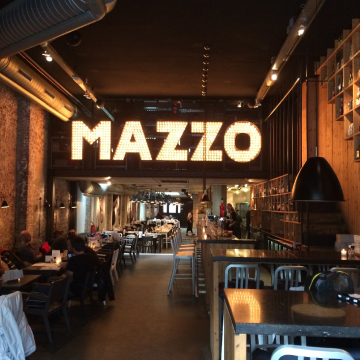
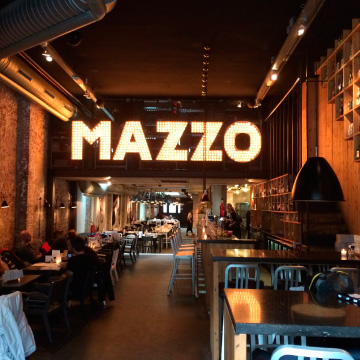
added some css animation and optimize images

diff --git a/index.html b/index.html
@@ -4,29 +4,46 @@
 <head>
   <meta charset="UTF-8">
   <meta name="viewport" content="width=device-width, initial-scale=1.0">
+  <link rel="shortcut icon" href="img/favicon.ico" type="image/x-icon">
   <link rel="stylesheet" href="styles/main.css">
   <link href="https://use.fontawesome.com/releases/v5.0.13/css/all.css" rel="stylesheet">
   <title>Hungry People</title>
 </head>
 
 <body>
-  <section class="main-section">
+  <section id="main-section" class="main-section">
     <div class="container">
       <header>
         <ul class="menu menu--left">
-          <li>home</li>
-          <li>about</li>
-          <li>team</li>
-          <li>booking</li>
+          <a href="#main-section">
+            <li>home</li>
+          </a>
+          <a href="#about-section">
+            <li>about</li>
+          </a>
+          <a href="#our-team-section">
+            <li>team</li>
+          </a>
+          <a href="#book-a-table-section">
+            <li>booking</li>
+          </a>
         </ul>
         <div class="logo">
           <a href=""><img src="img/logo.svg" alt=""></a>
         </div>
         <ul class="menu menu--right">
-          <li>menu</li>
-          <li>galerie</li>
-          <li>events</li>
-          <li>contact</li>
+          <a href="#delicious-menu-section">
+            <li>menu</li>
+          </a>
+          <a href="#events-section">
+            <li>events</li>
+          </a>
+          <a href="#photo-gallery-section">
+            <li>galerie</li>
+          </a>
+          <a href="#contact-section">
+            <li>contact</li>
+          </a>
         </ul>
       </header>
       <div class="main-section__content">
@@ -36,24 +53,39 @@
           <h1>hungry people</h1>
           <div class="decor-hr"></div>
           <div class="buttons">
-            <button>BOOK TABLE</button>
-            <button class="transparent">EXPLORE</button>
+            <a href="#book-a-table-section"><button>BOOK TABLE</button></a>
+            <a href="#map-section"><button class="transparent">EXPLORE</button></a>
           </div>
-          <div class="link-down">
+          <a href="#about-section">
+            <div class="link-down">
+              <div class="link-down__body">
+                <img src="img/down-chevron.svg" alt="">
+              </div>
+            </div>
+          </a>
+        </div>
+        <div class="social">
+          <a href="#">
+            <div><img src="img/facebook.svg" alt=""></div>
+          </a>
+          <a href="#">
+            <div><img src="img/twitter.svg" alt=""></div>
+          </a>
+          <a href="#">
+            <div><img src="img/instagram.svg" alt=""></div>
+          </a>
+        </div>
+        <a href="#main-section">
+          <div class="link-down link-down--reverse">
             <div class="link-down__body">
               <img src="img/down-chevron.svg" alt="">
             </div>
           </div>
-        </div>
-        <div class="social">
-          <div><img src="img/facebook.svg" alt=""></div>
-          <div><img src="img/twitter.svg" alt=""></div>
-          <div><img src="img/instagram.svg" alt=""></div>
-        </div>
+        </a>
       </div>
     </div>
   </section>
-  <section class="about-section">
+  <section id="about-section" class="about-section">
     <div class="container">
       <div class="about-info">
         <h2>about us</h2>
@@ -69,7 +101,7 @@
       </div>
     </div>
   </section>
-  <section class="our-team-section white-text">
+  <section id="our-team-section" class="our-team-section white-text">
     <h3>our team</h3>
     <div class="container">
       <div class="img-wrapper">
@@ -86,7 +118,7 @@
       </div>
     </div>
   </section>
-  <section class="book-a-table-section">
+  <section id="book-a-table-section" class="book-a-table-section">
     <div class="container">
       <div class="book-a-table-form-wrapper">
         <h2>book a table</h2>
@@ -146,7 +178,7 @@
         <span class="checkmark"></span>
       </div>
       <div class="switch__item">
-        <input type="radio" name="switch-slider" id="switch-slider-2">
+        <input type="radio" name="switch-slider" id="switch-slider-2" checked>
         <span class="checkmark"></span>
       </div>
       <div class="switch__item">
@@ -155,7 +187,7 @@
       </div>
     </div>
   </section>
-  <section class="delicious-menu-section">
+  <section id="delicious-menu-section" class="delicious-menu-section">
     <h2>Deliciuos menu</h2>
     <div class="decor-hr"></div>
     <p class="delicious-menu-section__desc">Lorem ipsum dolor sit amet, consectetur adipiscing elit. Duis at velit maximus, molestie est a, tempor magna.</p>
@@ -261,7 +293,7 @@
       </ul>
     </div>
   </section>
-  <section class="events-section white-text">
+  <section id="events-section" class="events-section white-text">
     <h3>private events</h3>
     <div class="container">
       <div class="img-wrapper">
@@ -273,7 +305,7 @@
     </div>
     <p>For private events please call: <strong>+40 729 131 637/+40 726 458 782</strong> or use the contact form.</p>
   </section>
-  <section class="photo-gallery-section">
+  <section id="photo-gallery-section" class="photo-gallery-section">
     <div class="slider">
       <img src="img/slide1.jpg" alt="">
       <img src="img/slide2.jpg" alt="">
@@ -281,11 +313,11 @@
       <img src="img/slide4.jpg" alt="">
     </div>
   </section>
-  <section class="contact-section">
+  <section id="contact-section" class="contact-section">
     <h2>contact</h2>
     <div class="decor-hr"></div>
     <p>Lorem ipsum dolor sit amet, consectetur adipiscing elit. Duis at velit maximus, molestie est a, tempor magna.</p>
-    <form action="" class="contact-form">
+    <form action="#" class="contact-form">
       <input type="text" placeholder="Name">
       <input type="email" placeholder="Email">
       <input type="tel" placeholder="Phone">
@@ -300,7 +332,7 @@
       </div>
     </form>
   </section>
-  <section class="map-section">
+  <section id="map-section" class="map-section">
     <iframe src="https://www.google.com/maps/embed?pb=!1m18!1m12!1m3!1d9932.865686291638!2d-0.10687211093699478!3d51.509245378788506!2m3!1f0!2f0!3f0!3m2!1i1024!2i768!4f13.1!3m3!1m2!1s0x487604a905ae1621%3A0xe700778eb8b2878e!2z0KjQtdC60YHQv9C40YDRgSDQk9C70L7Rg9Cx!5e0!3m2!1sru!2sru!4v1605530509448!5m2!1sru!2sru" width="100%" height="100%" frameborder="0" style="border:0;" allowfullscreen="" aria-hidden="false" tabindex="0"></iframe>
   </section>
   <footer>

diff --git a/styles/main.css b/styles/main.css
@@ -1,5 +1,5 @@
 @import url('https://fonts.googleapis.com/css2?family=Lobster+Two:wght@700&family=Open+Sans:wght@400;700&display=swap');
-
+@import url("animations.css");
 /* font-family: 'Lobster Two', cursive;
 font-family: 'Open Sans', sans-serif; */
 
@@ -48,12 +48,18 @@ button, input[type="submit"] {
   line-height: 60px;
   border-radius: 5px;
   cursor: pointer;
+  transition: all .2s ease;
 }
 
 button:hover,
 select:hover {
   cursor: pointer;
 }
+
+button:hover, input[type="submit"]:hover {
+  background-color: #000000;
+}
+
 
 input, select, option, textarea{
   background-color: #E5E5E5; 
@@ -103,6 +109,7 @@ section {
   width: 100%;
   min-height: 100vh;
   color: #fff;
+  padding-top: 0px;
 }
 
 .decor-hr {
@@ -137,6 +144,16 @@ header ul {
   height: 100px;
 }
 
+header ul a {
+  text-decoration: none;
+  color: #fff;
+  transition: all .2s ease;
+}
+
+header ul a:hover {
+  background-color: rgba(0,0,0, .8);
+}
+
 header ul:first-child {
   margin-right: 35px;
 }
@@ -146,6 +163,7 @@ header ul:last-child {
 }
 
 header ul li {
+  text-align: center;
   padding: 40px;
   width: 133px;
   height: 100%; 
@@ -158,7 +176,7 @@ header img {
 
 /* --------- главный экран ---------- */
 .main-section__content {
-  margin-top: 150px;
+  margin-top: 100px;
   display: grid;
   grid-template-rows: 1fr;
   grid-template-columns: 1fr 850px 1fr;
@@ -209,6 +227,11 @@ header img {
 
 }
 
+.main-section__content .buttons .transparent:hover {
+  background-color: #000;
+  border: 1px solid #000;
+}
+
 .main-section__content .link-down {
   position: relative;
   bottom: -50px;
@@ -219,6 +242,23 @@ header img {
   height: 60px;
   border-radius: 50%;
   border: 1px solid rgba(255, 255, 255, 0.2);
+  transition: all .3s ease;
+}
+
+.main-section__content .link-down--reverse {
+  transform: rotate(180deg);
+  position: fixed;
+  right: 20px;
+  bottom: 3vh;
+}
+
+.main-section__content .link-down--reverse .link-down__body{
+  background-color: #E8C300;
+}
+
+.main-section__content .link-down:hover {
+  cursor: pointer;
+  border-color: #E8C300;
 }
 
 .main-section__content .link-down__body {
@@ -242,6 +282,12 @@ header img {
 
 .main-section__content .social div {
   margin-top: 20px;
+  transition: all .3s;
+  transition-timing-function: ease-in-out;
+}
+
+.main-section__content .social div:hover {
+  transform: scale(1.1);
 }
 
 /*---------------- about us ----------------- */
@@ -332,7 +378,7 @@ select:hover {
 
 /* ----------- specialties ---------- */
 .specialties-section {
-  background: url("../img/specialty-bg.jpg") no-repeat;
+  background: url("../img/events-bg.jpg") no-repeat;
   background-size: cover;
   background-attachment: fixed;
   padding-bottom: 50px;
@@ -553,9 +599,16 @@ select:hover {
   justify-content: space-between;
 }
 
-.photo-gallery-section .img {
+.photo-gallery-section img {
   display: block;
   width: 360px;
+  transition: all .4s ease-in-out;
+}
+
+.photo-gallery-section img:hover {
+  margin: 0 18px;
+  transform: scale(1.1);
+
 }
 
 /* ------------------------- contact ------------------------- */

diff --git a/styles/animations.css b/styles/animations.css
@@ -1,0 +1,18 @@
+/* @keyframes pulse {
+  0% {
+    transform: scale(1.0);
+  }
+  33% {
+    transform: scale(1.03);
+    
+  }
+
+  66% {
+    transform: scale(1.02);
+    
+  }
+
+  100% {
+    transform: scale(1.0);
+  }
+} */

diff --git a/README.md b/README.md
@@ -1,2 +1,3 @@
-# hungry-people-LP
-LP for a restaurant
+# Hungry-People Landing Page  
+**_uncommercial_** layot LP for a restaurant
+---  
